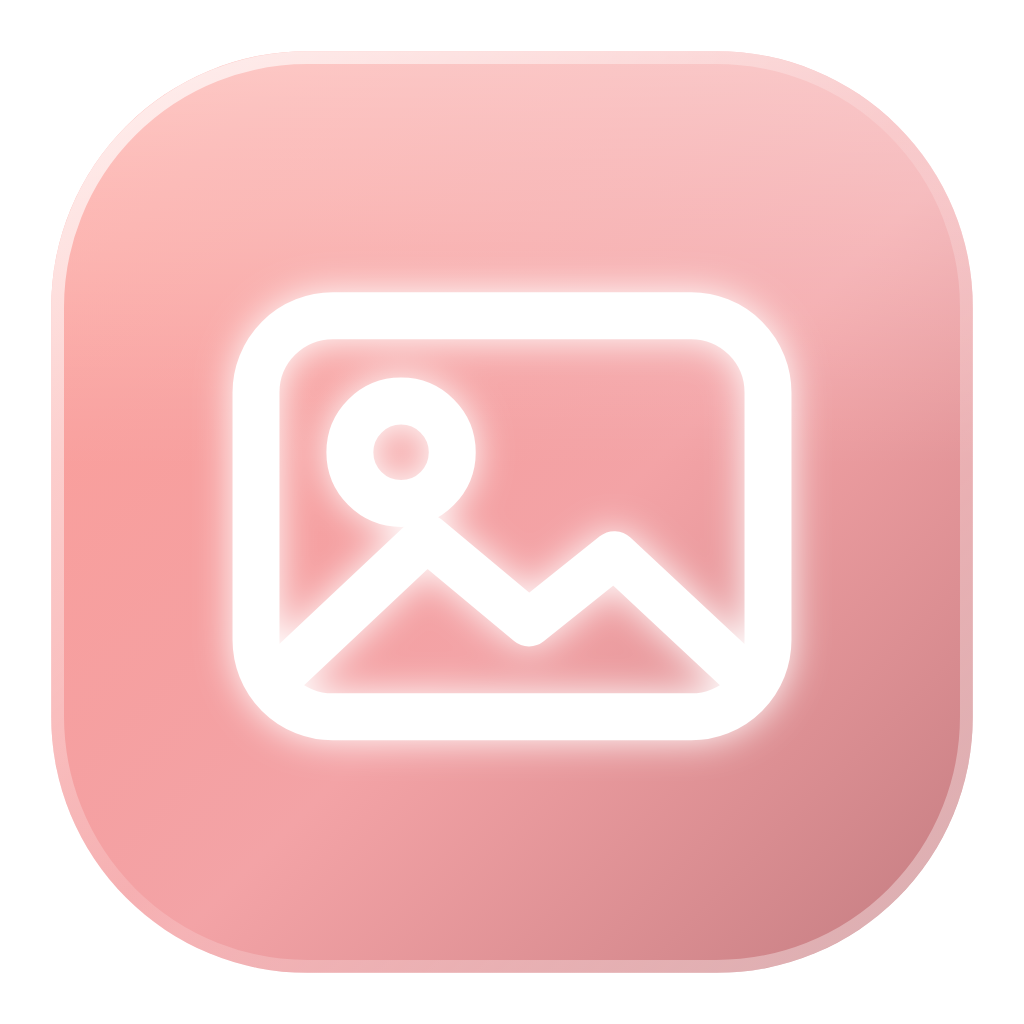
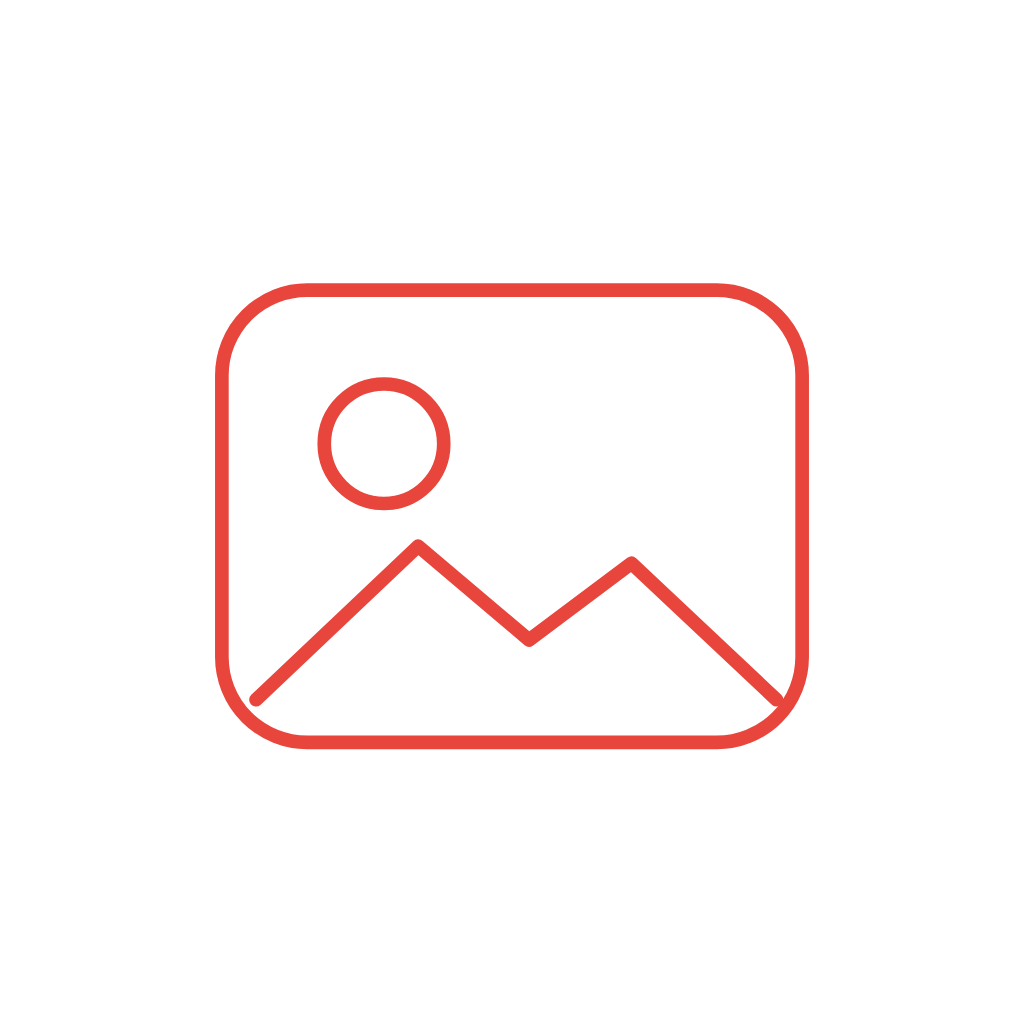
Karusel: ikony jako obrys ve stylu velkych cisel, vetsi, cisla ustoupi; paticka: kontakty uprostred mezi prvnim treninkem a partnery, blok mirne doleva; Zapasy: jemnejsi ztmaveni karet pri hoveru; v=20260929u

diff --git a/index.html b/index.html
@@ -188,15 +188,17 @@ body.fx #stats{position:absolute;inset:0;align-items:center;justify-content:cent
 
 /* jedna mezera --og pro vsechno v paticce: nad linii, mezi kontakty, linie-text,
    text-loga a loga-spodni linie */
-.outro{--og:28px}
+.outro{--og:28px;padding-right:calc(var(--g) + 3vw)}   /* opticky stred o kus doleva */
+.outro .contact{margin-top:var(--og);padding-top:var(--og)}   /* stejne mezery nad i pod kontakty */
 .outro .contact{display:flex;flex-wrap:wrap;justify-content:center;gap:var(--og)}
 .outro .contact div{text-align:center}
 .outro .contact .l{padding-left:.24em}   /* vyrovna mezery za pismeny - stitek presne na stred */
-/* ikony karet v karuselu: iOS sklo, cervene podbarveni */
+/* ikony karet: obrys ve stejnem stylu jako velka cisla, cislo ustoupi do pozadi */
 .cf-art{position:relative}
-.cf-ico{position:absolute;left:50%;top:46%;width:36%;max-width:124px;height:auto;transform:translate(-50%,-50%);z-index:2;pointer-events:none;
-  filter:drop-shadow(0 12px 22px rgba(0,0,0,.45)) drop-shadow(0 0 20px rgba(227,36,43,.28));transition:transform .6s cubic-bezier(.2,.9,.3,1.1)}
-.cf-card:hover .cf-ico{transform:translate(-50%,-54%) scale(1.04)}
+.cf-ico{position:absolute;left:50%;top:44%;width:56%;max-width:190px;height:auto;transform:translate(-50%,-50%);z-index:2;pointer-events:none;
+  opacity:.85;filter:drop-shadow(0 0 10px rgba(255,80,70,.35));transition:transform .6s cubic-bezier(.2,.9,.3,1.1),opacity .4s ease}
+.cf-card:hover .cf-ico{transform:translate(-50%,-53%) scale(1.03);opacity:1}
+.cf-art:has(.cf-ico) .cf-num{opacity:.3}
 .outro .contact .l{color:oklch(74% .20 27);font-weight:800;animation:dech 4.6s ease-in-out infinite}   /* cervene jako ostatni */
 .outro .affil{display:flex;flex-wrap:wrap;align-items:center;justify-content:center;
   column-gap:clamp(16px,3.4vw,40px);row-gap:var(--og);
@@ -447,8 +449,8 @@ body.fx #stats{position:absolute;inset:0;align-items:center;justify-content:cent
 
 <span id="diag" hidden></span>
 
-<link rel="stylesheet" href="carousel.css?v=20260929t">
-<link rel="stylesheet" href="menu.css?v=20260929t">
+<link rel="stylesheet" href="carousel.css?v=20260929u">
+<link rel="stylesheet" href="menu.css?v=20260929u">
 <script type="importmap">
 {"imports":{"three":"https://cdn.jsdelivr.net/npm/three@0.160.1/build/three.module.min.js","three/addons/":"https://cdn.jsdelivr.net/npm/three@0.160.1/examples/jsm/"}}
 </script>
@@ -873,9 +875,9 @@ body.fx #stats{position:absolute;inset:0;align-items:center;justify-content:cent
 
 })();
 </script>
-<script type="module" src="glove3d.js?v=20260929t"></script>
-<script src="carousel.js?v=20260929t" defer></script>
-<script src="repel.js?v=20260929t" defer></script>
+<script type="module" src="glove3d.js?v=20260929u"></script>
+<script src="carousel.js?v=20260929u" defer></script>
+<script src="repel.js?v=20260929u" defer></script>
 <script>
 // Za kurzorem: svetlo a drobne bubliny, ktere se odtrhnou a odplavou jako
 // proud vody. V hero cervene, v dalsich sekcich bile. Kruhy na hladine jsou pryc.
@@ -914,6 +916,6 @@ body.fx #stats{position:absolute;inset:0;align-items:center;justify-content:cent
 })();
 </script>
 <script>document.querySelectorAll(".cta .btn").forEach(function(b){b.addEventListener("mousemove",function(e){var r=b.getBoundingClientRect();b.style.setProperty("--mx",(e.clientX-r.left)+"px");b.style.setProperty("--my",(e.clientY-r.top)+"px");});});</script>
-<script src="menu.js?v=20260929t" defer></script>
-<script src="splash.js?v=20260929t" defer></script>
+<script src="menu.js?v=20260929u" defer></script>
+<script src="splash.js?v=20260929u" defer></script>
 </html>

diff --git a/treneri.html b/treneri.html
@@ -9,10 +9,10 @@
 <link rel="preconnect" href="https://fonts.googleapis.com">
 <link rel="preconnect" href="https://fonts.gstatic.com" crossorigin>
 <link href="https://fonts.googleapis.com/css2?family=Archivo:wdth,wght@62..125,400..800&family=Bodoni+Moda:ital@1&display=swap" rel="stylesheet">
-<link rel="stylesheet" href="carousel.css?v=20260929t">
-<link rel="stylesheet" href="page.css?v=20260929t">
+<link rel="stylesheet" href="carousel.css?v=20260929u">
+<link rel="stylesheet" href="page.css?v=20260929u">
 
-<link rel="stylesheet" href="menu.css?v=20260929t">
+<link rel="stylesheet" href="menu.css?v=20260929u">
 </head>
 <body>
 
@@ -97,11 +97,11 @@
 
 </main>
 
-<script src="carousel.js?v=20260929t" defer></script>
-<script src="page.js?v=20260929t" defer></script>
-<script src="repel.js?v=20260929t" defer></script>
+<script src="carousel.js?v=20260929u" defer></script>
+<script src="page.js?v=20260929u" defer></script>
+<script src="repel.js?v=20260929u" defer></script>
 
-<script src="menu.js?v=20260929t" defer></script>
-<script src="splash.js?v=20260929t" defer></script>
+<script src="menu.js?v=20260929u" defer></script>
+<script src="splash.js?v=20260929u" defer></script>
 </body>
 </html>

diff --git a/treninky.html b/treninky.html
@@ -9,9 +9,9 @@
 <link rel="preconnect" href="https://fonts.googleapis.com">
 <link rel="preconnect" href="https://fonts.gstatic.com" crossorigin>
 <link href="https://fonts.googleapis.com/css2?family=Archivo:wdth,wght@62..125,400..800&family=Bodoni+Moda:ital@1&display=swap" rel="stylesheet">
-<link rel="stylesheet" href="page.css?v=20260929t">
-<link rel="stylesheet" href="carousel.css?v=20260929t">
-<link rel="stylesheet" href="menu.css?v=20260929t">
+<link rel="stylesheet" href="page.css?v=20260929u">
+<link rel="stylesheet" href="carousel.css?v=20260929u">
+<link rel="stylesheet" href="menu.css?v=20260929u">
 </head>
 <body>
 
@@ -142,10 +142,10 @@
 
 </main>
 
-<script src="carousel.js?v=20260929t" defer></script>
-<script src="page.js?v=20260929t" defer></script>
-<script src="repel.js?v=20260929t" defer></script>
-<script src="menu.js?v=20260929t" defer></script>
-<script src="splash.js?v=20260929t" defer></script>
+<script src="carousel.js?v=20260929u" defer></script>
+<script src="page.js?v=20260929u" defer></script>
+<script src="repel.js?v=20260929u" defer></script>
+<script src="menu.js?v=20260929u" defer></script>
+<script src="splash.js?v=20260929u" defer></script>
 </body>
 </html>

diff --git a/facebook.html b/facebook.html
@@ -9,8 +9,8 @@
 <link rel="preconnect" href="https://fonts.googleapis.com">
 <link rel="preconnect" href="https://fonts.gstatic.com" crossorigin>
 <link href="https://fonts.googleapis.com/css2?family=Archivo:wdth,wght@62..125,400..800&family=Bodoni+Moda:ital@1&display=swap" rel="stylesheet">
-<link rel="stylesheet" href="page.css?v=20260929t">
-<link rel="stylesheet" href="menu.css?v=20260929t">
+<link rel="stylesheet" href="page.css?v=20260929u">
+<link rel="stylesheet" href="menu.css?v=20260929u">
 </head>
 <body>
 
@@ -91,8 +91,8 @@
 
 </main>
 
-<script src="page.js?v=20260929t" defer></script>
-<script src="repel.js?v=20260929t" defer></script>
+<script src="page.js?v=20260929u" defer></script>
+<script src="repel.js?v=20260929u" defer></script>
 <script>
 // SDK se stahuje az kdyz se sekce dostane do zaberu - jinak by stranku zdrzoval
 // pul megabajtu skriptu, ktery vetsina navstevniku ani neuvidi.
@@ -128,7 +128,7 @@
   } else load();
 })();
 </script>
-<script src="menu.js?v=20260929t" defer></script>
-<script src="splash.js?v=20260929t" defer></script>
+<script src="menu.js?v=20260929u" defer></script>
+<script src="splash.js?v=20260929u" defer></script>
 </body>
 </html>

diff --git a/galerie.html b/galerie.html
@@ -9,8 +9,8 @@
 <link rel="preconnect" href="https://fonts.googleapis.com">
 <link rel="preconnect" href="https://fonts.gstatic.com" crossorigin>
 <link href="https://fonts.googleapis.com/css2?family=Archivo:wdth,wght@62..125,400..800&family=Bodoni+Moda:ital@1&display=swap" rel="stylesheet">
-<link rel="stylesheet" href="page.css?v=20260929t">
-<link rel="stylesheet" href="menu.css?v=20260929t">
+<link rel="stylesheet" href="page.css?v=20260929u">
+<link rel="stylesheet" href="menu.css?v=20260929u">
 </head>
 <body>
 
@@ -169,9 +169,9 @@
   lb.addEventListener('touchend',function(e){if(sx===null)return; var d=e.changedTouches[0].clientX-sx; if(Math.abs(d)>50) step(d<0?1:-1); sx=null;});
 })();
 </script>
-<script src="page.js?v=20260929t" defer></script>
-<script src="repel.js?v=20260929t" defer></script>
-<script src="menu.js?v=20260929t" defer></script>
-<script src="splash.js?v=20260929t" defer></script>
+<script src="page.js?v=20260929u" defer></script>
+<script src="repel.js?v=20260929u" defer></script>
+<script src="menu.js?v=20260929u" defer></script>
+<script src="splash.js?v=20260929u" defer></script>
 </body>
 </html>

diff --git a/zapasy.html b/zapasy.html
@@ -9,8 +9,8 @@
 <link rel="preconnect" href="https://fonts.googleapis.com">
 <link rel="preconnect" href="https://fonts.gstatic.com" crossorigin>
 <link href="https://fonts.googleapis.com/css2?family=Archivo:wdth,wght@62..125,400..800&family=Bodoni+Moda:ital@1&display=swap" rel="stylesheet">
-<link rel="stylesheet" href="page.css?v=20260929t">
-<link rel="stylesheet" href="menu.css?v=20260929t">
+<link rel="stylesheet" href="page.css?v=20260929u">
+<link rel="stylesheet" href="menu.css?v=20260929u">
 </head>
 <body>
 
@@ -127,9 +127,9 @@
   show('2026');
 })();
 </script>
-<script src="page.js?v=20260929t" defer></script>
-<script src="repel.js?v=20260929t" defer></script>
-<script src="menu.js?v=20260929t" defer></script>
-<script src="splash.js?v=20260929t" defer></script>
+<script src="page.js?v=20260929u" defer></script>
+<script src="repel.js?v=20260929u" defer></script>
+<script src="menu.js?v=20260929u" defer></script>
+<script src="splash.js?v=20260929u" defer></script>
 </body>
 </html>

diff --git a/kontakt.html b/kontakt.html
@@ -9,8 +9,8 @@
 <link rel="preconnect" href="https://fonts.googleapis.com">
 <link rel="preconnect" href="https://fonts.gstatic.com" crossorigin>
 <link href="https://fonts.googleapis.com/css2?family=Archivo:wdth,wght@62..125,400..800&family=Bodoni+Moda:ital@1&display=swap" rel="stylesheet">
-<link rel="stylesheet" href="page.css?v=20260929t">
-<link rel="stylesheet" href="menu.css?v=20260929t">
+<link rel="stylesheet" href="page.css?v=20260929u">
+<link rel="stylesheet" href="menu.css?v=20260929u">
 </head>
 <body>
 
@@ -84,9 +84,9 @@
   </div>
 </main>
 
-<script src="page.js?v=20260929t" defer></script>
-<script src="repel.js?v=20260929t" defer></script>
-<script src="menu.js?v=20260929t" defer></script>
-<script src="splash.js?v=20260929t" defer></script>
+<script src="page.js?v=20260929u" defer></script>
+<script src="repel.js?v=20260929u" defer></script>
+<script src="menu.js?v=20260929u" defer></script>
+<script src="splash.js?v=20260929u" defer></script>
 </body>
 </html>

diff --git a/page.css b/page.css
@@ -479,7 +479,7 @@ a.kart:hover{border-color:oklch(66% .21 26/.55);transform:translateY(-3px)}
 .ev::after,.res::after{content:"";position:absolute;inset:-1px;border-radius:inherit;pointer-events:none;opacity:0;
   box-shadow:0 0 38px rgba(227,36,43,.42),0 18px 40px rgba(0,0,0,.45);transition:opacity .45s ease}
 .ev:hover::after,.res:hover::after{opacity:1}
-.ev:hover{border-color:rgba(227,36,43,.78);background-color:oklch(9% .02 28/.82)}
+.ev:hover{border-color:rgba(227,36,43,.78);background-color:oklch(12.5% .018 30/.68)}   /* jen mirne ztmaveni */
 .res:hover{border-color:rgba(227,36,43,.7)}
 .ev .lbl,.res .lbl{transition:color .4s ease,text-shadow .4s ease}
 .ev:hover .lbl,.res:hover .lbl{color:#ff5b52;text-shadow:0 0 10px rgba(255,70,60,.85),0 0 24px rgba(227,36,43,.5)}
